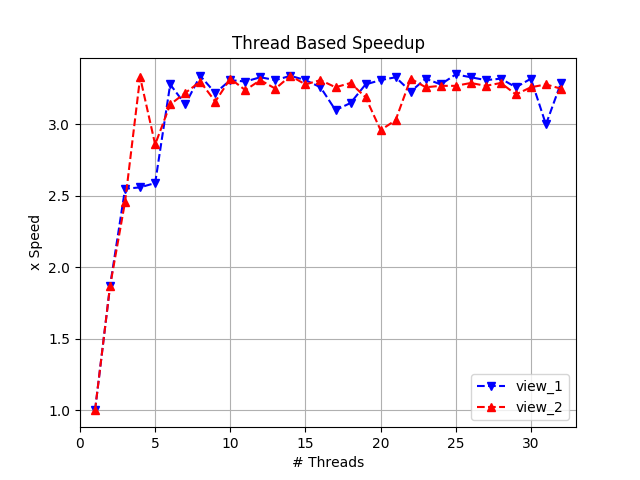
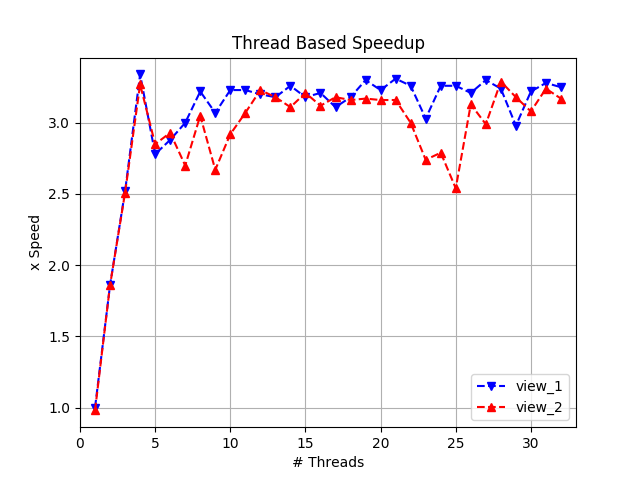
Report for program 1 is added.

diff --git a/prog1_mandelbrot_threads/mandelbrotThread.cpp b/prog1_mandelbrot_threads/mandelbrotThread.cpp
@@ -38,10 +38,25 @@ void* workerThreadStart(void* threadArgs) {
     // double startTime = CycleTimer::currentSeconds();
 
     unsigned int threadNumRows = args->height / args->numThreads;
+    
+    // Spatial decomposition
+    // if (
+    //     (args->height % args->numThreads != 0) && 
+    //     (args->threadId == args->numThreads - 1)) {
+    //     threadNumRows += args->numThreads % args->height;
+    // }
+    // mandelbrotSerial(
+    //     args->x0, args->y0, args->x1, args->y1, 
+    //     args->width, args->height,
+    //     (threadNumRows * args->threadId), threadNumRows,
+    //     args->maxIterations,
+    //     args->output
+    // );
+
+    // Interleaved assignment
     if (args->height % args->numThreads != 0) {
         threadNumRows ++;
     }
-    
     for (unsigned int i = 0; i < threadNumRows; i++) {
         unsigned int threadStartRow = i * args->numThreads + args->threadId;
         if (threadStartRow < args->height) {

diff --git a/prog2_vecintrin/CMU418intrin.h b/prog2_vecintrin/CMU418intrin.h
@@ -1,5 +1,5 @@
 // Define vector unit width here
-#define VECTOR_WIDTH 4
+#define VECTOR_WIDTH 8
 
 #ifndef CMU418INTRIN_H_
 #define CMU418INTRIN_H_

diff --git a/prog1_mandelbrot_threads/README.md b/prog1_mandelbrot_threads/README.md
@@ -1,0 +1,13 @@
+Program 1: Solution
+===================
+
+2. Speedup is not linear in the number of coures becuase spatial decomposition leads to the unbalanced workload. Computation of the bright regions requres much more iterations then the dark ones. If work is decomposed spatially, some threads operating on much harder regions of the space. The speedup for the view `2` is higher since spatial decompostions results in better balanced assignment than view `1`.
+3. Time required for the completion per thread:
+
+        [mandelbrot thread 3 worktime]:         [38.539] ms
+        [mandelbrot thread 0 worktime]:         [54.738] ms
+        [mandelbrot thread 2 worktime]:         [170.309] ms
+        [mandelbrot thread 1 worktime]:         [202.695] ms
+
+4. Interleaved assignment results in better workload balance and linear speedup. Run `python run_comparison.py` to plot the speedup over the number of threads:
+![speedup plot](speedup_comparison.svg)

diff --git a/prog2_vecintrin/README.md b/prog2_vecintrin/README.md
@@ -1,0 +1,3 @@
+Program 2: Solution
+===================
+
